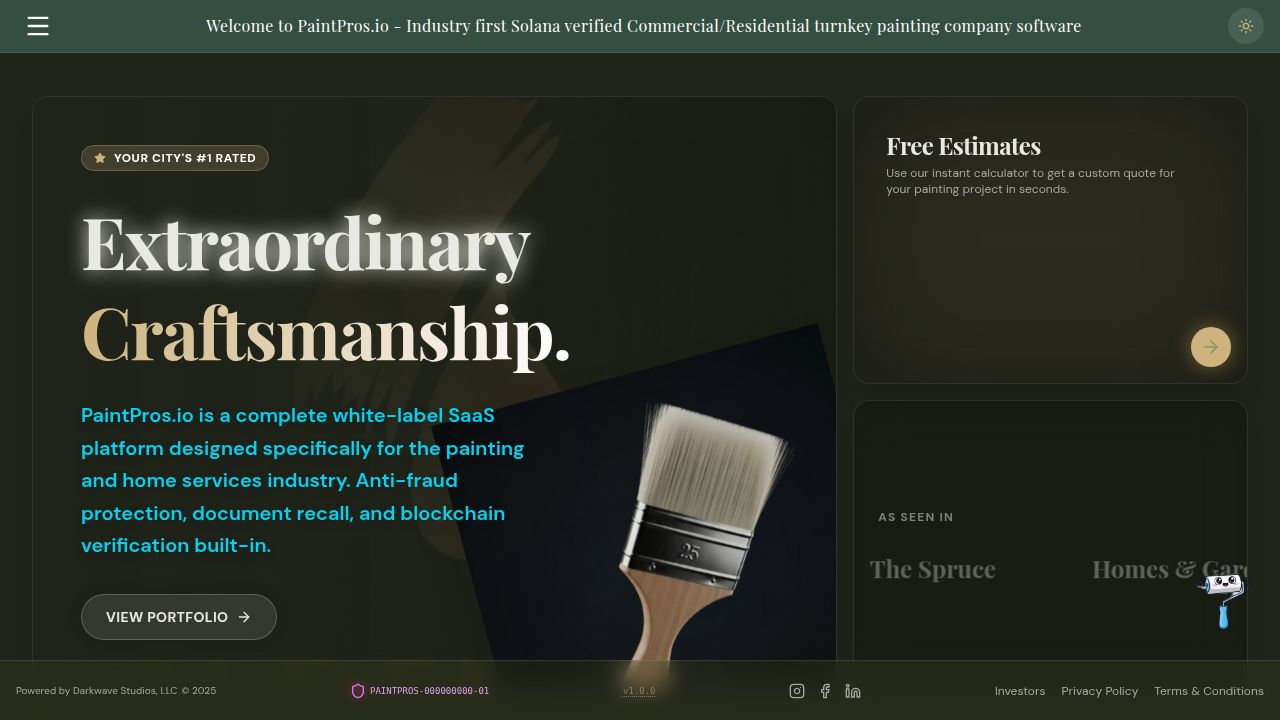
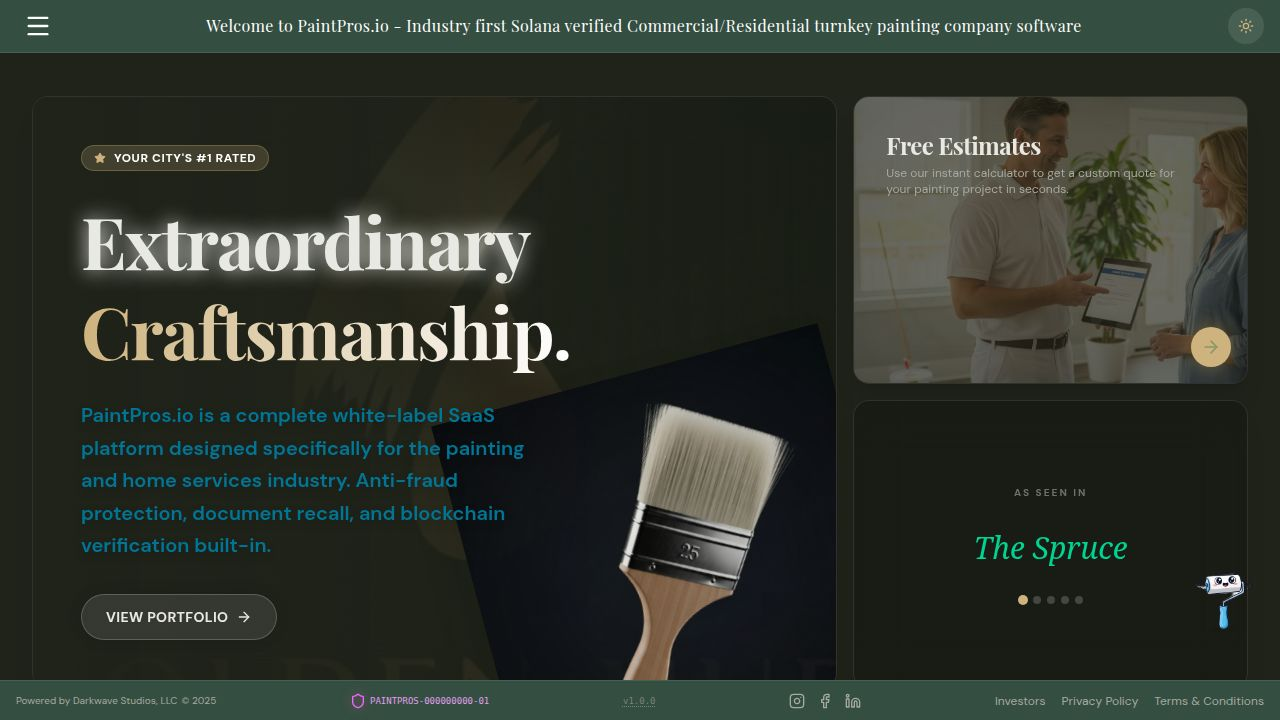
Add background images to warranty and testimonial cards
Adds AI-generated background images to the 5-Year Warranty and Testimonials cards on the home page, enhancing their visual appeal.

Replit-Commit-Author: Agent
Replit-Commit-Session-Id: 9640b7bd-518e-421e-8382-ba3444a8e185
Replit-Commit-Checkpoint-Type: full_checkpoint
Replit-Commit-Event-Id: e2365bf0-276f-47a5-8873-7c07de46981a
Replit-Commit-Screenshot-Url: https://storage.googleapis.com/screenshot-production-us-central1/57a1a84c-83d8-41f5-82c5-8661edb484a4/9640b7bd-518e-421e-8382-ba3444a8e185/757Wl5R
Replit-Helium-Checkpoint-Created: true

diff --git a/client/src/pages/home.tsx b/client/src/pages/home.tsx
@@ -14,6 +14,8 @@ import mapImage from "@assets/generated_images/stylized_map_of_nashville_and_sur
 import estimateImage from "@assets/generated_images/painter_consulting_homeowner_estimate.png";
 import premiumMaterialsImage from "@assets/generated_images/premium_paint_materials_display.png";
 import onTimeImage from "@assets/generated_images/on-time_punctuality_clock.png";
+import warrantyImage from "@assets/generated_images/warranty_shield_certificate_badge.png";
+import testimonialImage from "@assets/generated_images/freshly_painted_home_interior.png";
 import { useTenant } from "@/context/TenantContext";
 import { ServiceAreaModal } from "@/components/service-area-modal";
 import { ColorSelectorModal } from "@/components/color-selector-modal";
@@ -290,8 +292,13 @@ export default function Home() {
               className="w-full h-full text-left"
               data-testid="button-warranty"
             >
-              <GlassCard className="p-2 md:p-6 flex flex-col h-full cursor-pointer hover:border-accent/40 transition-all" hoverEffect>
-                <div className="flex items-center gap-2 md:gap-4">
+              <GlassCard className="p-2 md:p-6 flex flex-col h-full cursor-pointer hover:border-accent/40 transition-all relative overflow-hidden" hoverEffect>
+                <img 
+                  src={warrantyImage} 
+                  alt="Warranty guarantee" 
+                  className="absolute inset-0 w-full h-full object-cover opacity-20 transition-opacity"
+                />
+                <div className="flex items-center gap-2 md:gap-4 relative z-10">
                   <div className="bg-accent/10 p-1.5 md:p-3 rounded-lg md:rounded-xl flex-shrink-0">
                     <CheckCircle2 className="w-4 h-4 md:w-6 md:h-6 text-accent" />
                   </div>
@@ -307,7 +314,7 @@ export default function Home() {
                       initial={{ opacity: 0, height: 0 }}
                       animate={{ opacity: 1, height: 'auto' }}
                       exit={{ opacity: 0, height: 0 }}
-                      className="overflow-hidden"
+                      className="overflow-hidden relative z-10"
                     >
                       <div className="mt-3 pt-3 border-t border-white/10 space-y-2">
                         <p className="text-[10px] md:text-xs text-muted-foreground">Our commitment to quality:</p>
@@ -338,10 +345,15 @@ export default function Home() {
 
           {/* 7. Testimonials Carousel */}
           <BentoItem colSpan={8} rowSpan={1} mobileColSpan={4} mobileRowSpan={2}>
-            <GlassCard className="p-0 overflow-hidden h-full">
+            <GlassCard className="p-0 overflow-hidden h-full relative">
+              <img 
+                src={testimonialImage} 
+                alt="Beautiful painted home" 
+                className="absolute inset-0 w-full h-full object-cover opacity-15 transition-opacity"
+              />
               <CarouselView 
                 slides={testimonials.map((t, i) => (
-                  <div key={i} className="p-3 md:p-8 flex flex-col justify-between h-full min-w-[200px] md:min-w-[320px]">
+                  <div key={i} className="p-3 md:p-8 flex flex-col justify-between h-full min-w-[200px] md:min-w-[320px] relative z-10">
                     <div className="flex gap-0.5 md:gap-1 mb-2 md:mb-4">
                       {[...Array(5)].map((_, idx) => (
                         <Star key={idx} className={`w-3 h-3 md:w-4 md:h-4 ${idx < Math.floor(t.rating) ? "fill-accent text-accent" : "text-muted-foreground/30"}`} />
